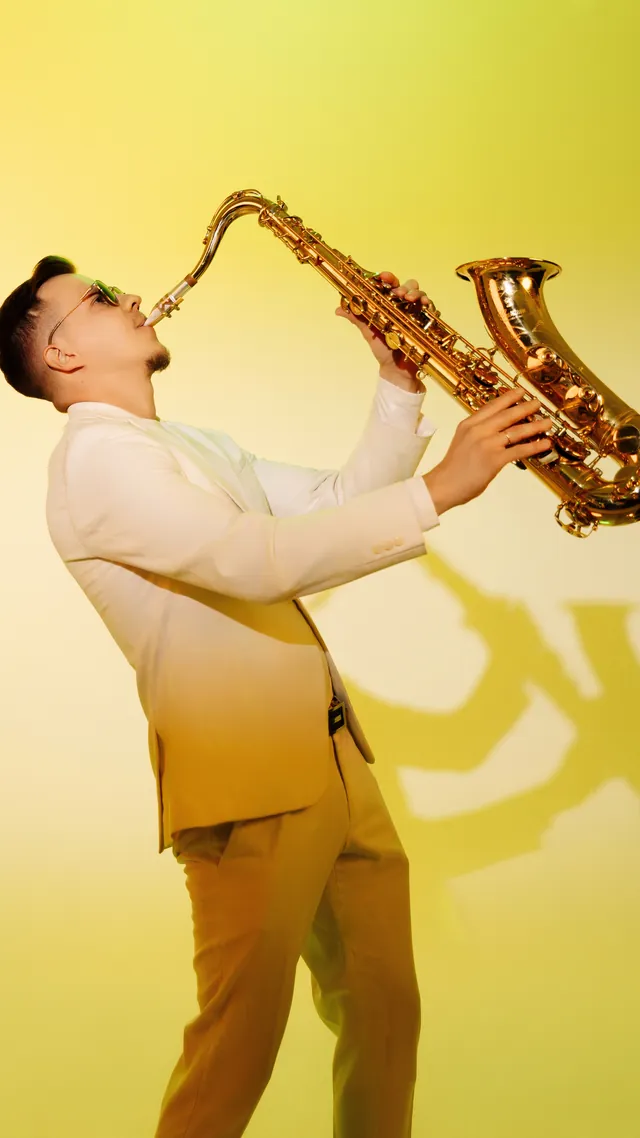
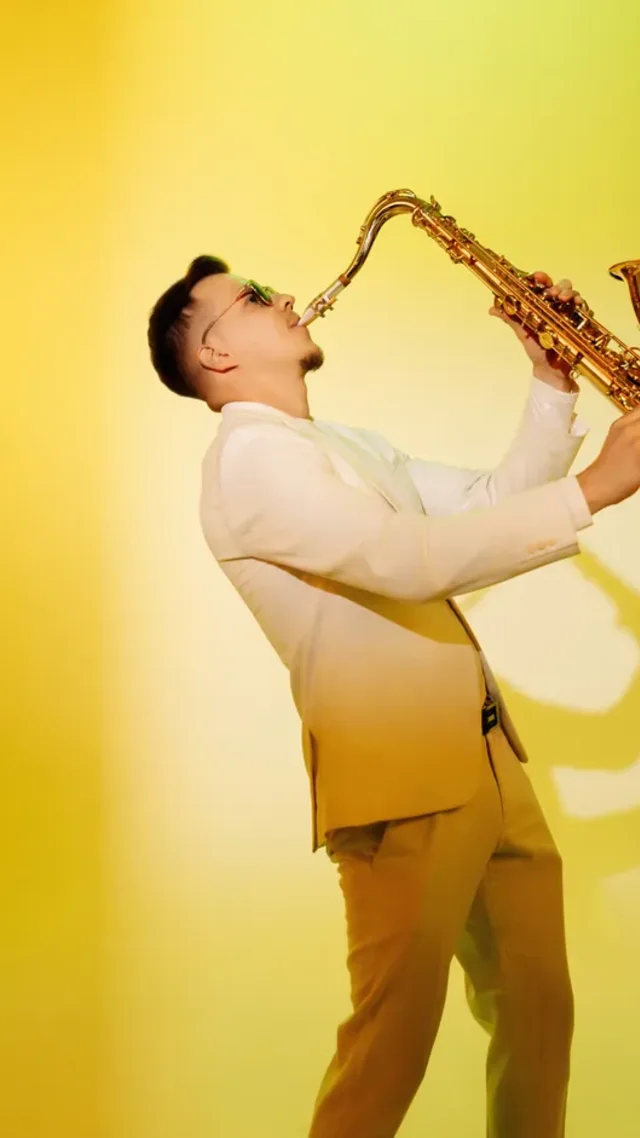
fix: make sax pages responsive across viewports

diff --git a/src/assets/stereo-sax/stereo-sax.css b/src/assets/stereo-sax/stereo-sax.css
@@ -51,14 +51,18 @@ img, video { display: block; max-width: 100%; }
 	height: 100%;
 }
 .leo-hero__stage { z-index: 0; background: #000; }
-.leo-hero__picture { transition: opacity 0.55s var(--leo-ease), transform 1.2s var(--leo-ease); }
+.leo-hero__picture {
+	top: var(--nav-h);
+	height: calc(100% - var(--nav-h));
+	transition: opacity 0.55s var(--leo-ease), transform 1.2s var(--leo-ease);
+}
 .leo-hero__image {
-	/* Stereo Sax: фигура слева в полный рост — без дополнительного зума,
-	   иначе cover срезает голову/ступни. Держим музыканта в кадре слева. */
+	/* Stereo Sax stays on the left. The top edge is a hard safe area so
+	   ultra-wide screens can crop the legs, never the performer's head. */
 	object-fit: cover;
-	object-position: 30% 42%;
+	object-position: 12% top;
 	transform: none;
-	transform-origin: 50% 20%;
+	transform-origin: 12% top;
 }
 .leo-player {
 	z-index: 1;
@@ -548,7 +552,7 @@ summary:focus-visible,
 	.leo-wrap,
 	.leo-section-head--dark { width: calc(100% - 40px); }
 	.leo-hero { min-height: 560px; }
-	.leo-hero__image { object-position: center 30%; transform: none; transform-origin: 50% 10%; }
+	.leo-hero__image { object-position: center top; transform: none; transform-origin: 50% top; }
 	.leo-wordmark { top: max(58px, calc(env(safe-area-inset-top) + 52px)); left: 14px; }
 	.leo-wordmark h1 { font-size: 15px; letter-spacing: 0.15em; text-indent: 0.15em; white-space: nowrap; }
 	.leo-crest__mark { top: max(54px, calc(env(safe-area-inset-top) + 48px)); right: 10px; width: 78px; }

diff --git a/src/assets/leo-sax/leo-sax.css b/src/assets/leo-sax/leo-sax.css
@@ -51,12 +51,18 @@ img, video { display: block; max-width: 100%; }
 	height: 100%;
 }
 .leo-hero__stage { z-index: 0; background: #000; }
-.leo-hero__picture { transition: opacity 0.55s var(--leo-ease), transform 1.2s var(--leo-ease); }
+.leo-hero__picture {
+	top: var(--nav-h);
+	height: calc(100% - var(--nav-h));
+	transition: opacity 0.55s var(--leo-ease), transform 1.2s var(--leo-ease);
+}
 .leo-hero__image {
 	object-fit: cover;
-	object-position: 50% 45%;
-	transform: scale(1.14);
-	transform-origin: 50% 20%;
+	/* The top edge is a hard safe area: even on ultra-wide screens the
+	   portrait may lose the lower part of the frame, never the head. */
+	object-position: 50% top;
+	transform: none;
+	transform-origin: 50% top;
 }
 .leo-player {
 	z-index: 1;
@@ -533,7 +539,7 @@ summary:focus-visible,
 	.leo-wrap,
 	.leo-section-head--dark { width: calc(100% - 40px); }
 	.leo-hero { min-height: 560px; }
-	.leo-hero__image { object-position: center center; transform: scale(1.14); transform-origin: 50% 10%; }
+	.leo-hero__image { object-position: center top; transform: none; transform-origin: 50% top; }
 	.leo-wordmark { top: max(58px, calc(env(safe-area-inset-top) + 52px)); left: 14px; }
 	.leo-wordmark h1 { font-size: 15px; letter-spacing: 0.15em; text-indent: 0.15em; white-space: nowrap; }
 	.leo-crest__mark { top: max(54px, calc(env(safe-area-inset-top) + 48px)); right: 10px; width: 78px; }

diff --git a/src/styles.css b/src/styles.css
@@ -330,6 +330,22 @@ h1, h2, h3, p { margin: 0; }
 	grid-template-columns: minmax(0, 520px);
 }
 
+/* Profile links belong directly below “Saxophone”: a compact vertical menu
+   keeps the pointer moving straight down instead of across a mega-panel. */
+.nav__dropdown--compact {
+	position: absolute;
+	top: 100%;
+	left: 0;
+	right: auto;
+	width: max-content;
+	min-width: 260px;
+	padding: 20px 22px 26px;
+	border-radius: 0 0 18px 18px;
+}
+.nav__dropdown--compact .nav__dropdown-inner { max-width: none; padding: 0; }
+.nav__dropdown--compact .nav__dropdown-cols--single { grid-template-columns: 1fr; }
+.nav__dropdown--compact .nav__dropdown-list a { font-size: 20px; }
+
 .nav__dropdown-label {
 	font-family: "SF Pro Text", "SF Pro Display", "Helvetica Neue", Helvetica, Arial, sans-serif;
 	font-size: 12px;
@@ -517,6 +533,7 @@ h1, h2, h3, p { margin: 0; }
 		padding: 0 0 8px 20px;
 		transition: none;
 	}
+	.nav__dropdown--compact { min-width: 0; border-radius: 0; }
 	.nav__dropdown-inner {
 		max-width: none;
 		padding: 0;
